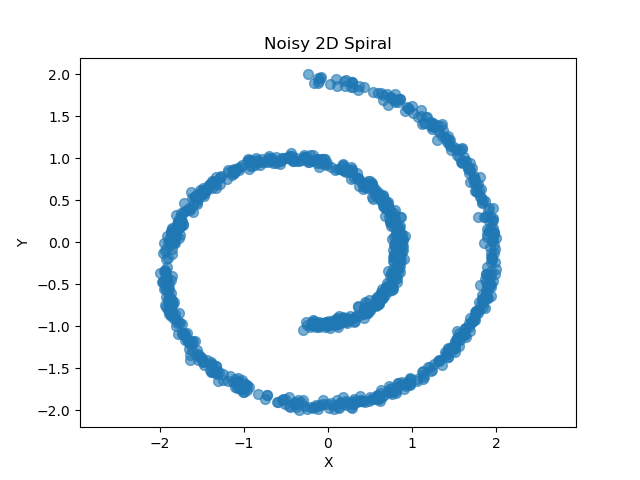
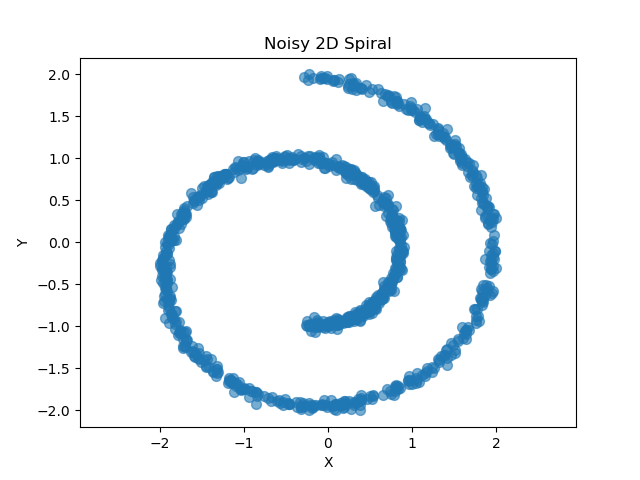
new posterior for ddpm bridge

Changed region(s): [[0.2188, 0.125, 0.7812, 0.875], [0.4688, 0.6562, 0.5312, 0.7188]]

diff --git a/graphdiffusion/bridge.py b/graphdiffusion/bridge.py
@@ -119,7 +119,7 @@ class VectorBridgeDDPM(nn.Module):
         if t_int != 0:
             posterior_variance = (1. - alphas_cumprod_prev) / (1. - alphas_cumprod) * betas  # in the paper this is in 3.2. Note that sigma^2 is variance, not std.
             posterior_std_t = torch.sqrt(posterior_variance[t_int])
-            posterior_std_t = torch.sqrt(beta_t) #alternative
+            #posterior_std_t = torch.sqrt(beta_t) #alternative
             noise = rand_like_with_seed(data_now)
             values_one_step_denoised = model_mean + posterior_std_t * noise
 
